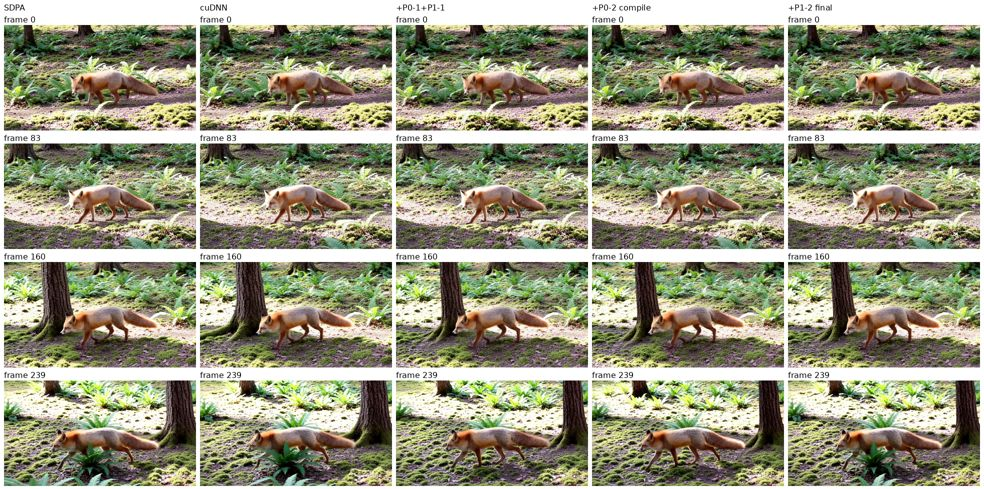
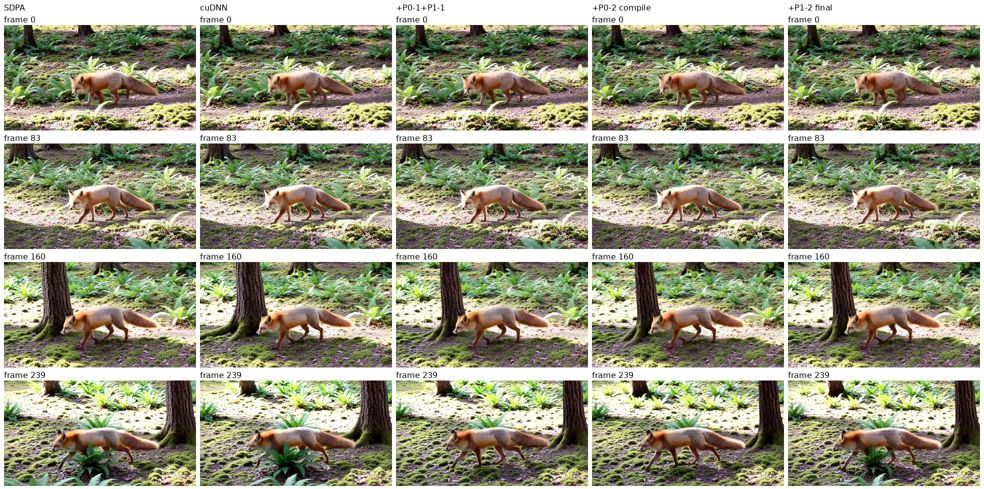
[Perf] Drop the Hy-Nomas q/k/v projection merge
Merging each stream's q/k/v projections into one GEMM measured no gain
(61,826 ms vs 61,723 ms without it), while it changed the checkpoint
mapping. Restore the separate projections and strict 1:1 loader; keep the
fused QK norm/RoPE, which takes separate q/k/v tensors.

Realtime smoke of the shipped config (warmup + 3 runs): median e2e
61,404 ms, DiT 29,930 ms, DiT MFU on valid-token FLOPs 72.7%, peak
66.12 GiB; decoded-RGB SSIM vs TORCH_SDPA 0.659. Update the report.

diff --git a/vllm_omni/diffusion/models/hy_nomas/transformer.py b/vllm_omni/diffusion/models/hy_nomas/transformer.py
@@ -24,7 +24,6 @@ numerical equivalence to the optional Magi/Flash kernels.
 """
 
 import math
-import re
 from collections.abc import Iterable
 from dataclasses import dataclass
 
@@ -48,8 +47,6 @@ from vllm_omni.diffusion.layers.norm import LayerNorm
 from vllm_omni.diffusion.models.flux.flux_transformer import FeedForward
 from vllm_omni.diffusion.models.hunyuan_video.hunyuan_video_15_transformer import HunyuanVideo15PatchEmbed
 from vllm_omni.diffusion.models.hy_nomas.cache import HyNomasKVCache
-
-_FUSED_QKV = re.compile(r"(double_blocks\.\d+\.attn\.(?:img|txt)_attn_)qkv\.(weight|bias)")
 
 
 def _attention(heads: int, head_dim: int, role: str) -> Attention:
@@ -265,10 +262,12 @@ class HyNomasAttnProcessor:
         cache_action_start=None,
         qk_norm_rope_table=None,
     ):
-        query, key, value = attn.img_attn_qkv(hidden_states).unflatten(-1, (3, attn.heads, -1)).unbind(-3)
-        encoder_query, encoder_key, encoder_value = (
-            attn.txt_attn_qkv(encoder_hidden_states).unflatten(-1, (3, attn.heads, -1)).unbind(-3)
-        )
+        query = attn.img_attn_q(hidden_states).unflatten(-1, (attn.heads, -1))
+        key = attn.img_attn_k(hidden_states).unflatten(-1, (attn.heads, -1))
+        value = attn.img_attn_v(hidden_states).unflatten(-1, (attn.heads, -1))
+        encoder_query = attn.txt_attn_q(encoder_hidden_states).unflatten(-1, (attn.heads, -1))
+        encoder_key = attn.txt_attn_k(encoder_hidden_states).unflatten(-1, (attn.heads, -1))
+        encoder_value = attn.txt_attn_v(encoder_hidden_states).unflatten(-1, (attn.heads, -1))
         if qk_norm_rope_table is not None and _fused_cuda_supported(
             query, key, query.shape[-1], qk_norm_rope_table.shape[-1], interleaved=True
         ):
@@ -439,9 +438,8 @@ class HyNomasAttention(nn.Module):
         self.heads = heads
         self.attention = _attention(heads, hidden_size // heads, "hy_nomas.joint")
         for prefix in ("img", "txt"):
-            # The checkpoint's separate q/k/v projections load into one GEMM.
-            setattr(self, f"{prefix}_attn_qkv", nn.Linear(hidden_size, 3 * hidden_size))
-            setattr(self, f"{prefix}_attn_proj", nn.Linear(hidden_size, hidden_size))
+            for projection in ("q", "k", "v", "proj"):
+                setattr(self, f"{prefix}_attn_{projection}", nn.Linear(hidden_size, hidden_size))
             setattr(self, f"{prefix}_attn_q_norm", RMSNorm(hidden_size // heads, eps=1e-6))
             setattr(self, f"{prefix}_attn_k_norm", RMSNorm(hidden_size // heads, eps=1e-6))
         self.processor = self._default_processor_cls()
@@ -685,32 +683,19 @@ class HyNomasTransformer3DModel(nn.Module):
         checkpoint_mapper = WeightsMapper(
             orig_to_new_substr={new: old for old, new in self.hf_to_vllm_mapper.orig_to_new_substr.items()}
         )
-        # Checkpoint name -> (parameter name, q/k/v shard of a fused projection or None).
-        destinations: dict[str, tuple[str, int | None]] = {}
-        for parameter_name in parameters:
-            checkpoint_name = checkpoint_mapper.apply_list([parameter_name])[0]
-            fused = _FUSED_QKV.fullmatch(checkpoint_name)
-            if fused is None:
-                destinations[checkpoint_name] = (parameter_name, None)
-                continue
-            for shard, projection in enumerate("qkv"):
-                destinations[f"{fused[1]}{projection}.{fused[2]}"] = (parameter_name, shard)
+        checkpoint_names = set(checkpoint_mapper.apply_list(list(parameters)))
         loaded: set[str] = set()
         seen: set[str] = set()
         for name, tensor in weights:
-            if name not in destinations:
+            if name not in checkpoint_names:
                 raise ValueError(f"Unexpected Hy-Nomas transformer weight: {name}")
             if name in seen:
                 raise ValueError(f"Duplicate Hy-Nomas transformer weight: {name}")
-            destination, shard = destinations[name]
-            parameter = parameters[destination]
-            if shard is not None:
-                size = parameter.shape[0] // 3
-                parameter = parameter.data[shard * size : (shard + 1) * size]
-            default_weight_loader(parameter, tensor)
+            destination = self.hf_to_vllm_mapper.apply_list([name])[0]
+            default_weight_loader(parameters[destination], tensor)
             seen.add(name)
             loaded.add(destination)
-        missing = set(destinations) - seen
+        missing = checkpoint_names - seen
         if missing:
             raise ValueError(f"Missing Hy-Nomas transformer weights: {sorted(missing)}")
         return loaded

diff --git a/tests/diffusion/models/test_hy_nomas_transformer.py b/tests/diffusion/models/test_hy_nomas_transformer.py
@@ -138,34 +138,13 @@ def test_camera_gate_and_front_padding(tiny_model):
         tiny_model(**args, camera_extrinsics=poses[:, :4])
 
 
-def _checkpoint_names(name):
-    """Map a parameter to its converted-checkpoint names, splitting fused q/k/v."""
-    name = name.replace("_mlp.net.0.proj.", "_mlp.fc1.").replace("_mlp.net.2.", "_mlp.fc2.")
-    fused = model_module._FUSED_QKV.fullmatch(name)
-    return [name] if fused is None else [f"{fused[1]}{projection}.{fused[2]}" for projection in "qkv"]
-
-
-def _checkpoint(state):
-    weights = []
-    for name, tensor in state.items():
-        names = _checkpoint_names(name)
-        weights.extend(zip(names, (part.clone() for part in tensor.chunk(len(names)))))
-    return weights
-
-
 def test_strict_checkpoint_loading(tiny_model):
-    weights = _checkpoint(tiny_model.state_dict())
+    weights = []
+    for name, tensor in tiny_model.state_dict().items():
+        name = name.replace("_mlp.net.0.proj.", "_mlp.fc1.").replace("_mlp.net.2.", "_mlp.fc2.")
+        weights.append((name, tensor.clone()))
     weights.reverse()
-    checkpoint = dict(weights)
-    for parameter in tiny_model.parameters():
-        nn.init.zeros_(parameter)
     assert tiny_model.load_weights(weights) == set(tiny_model.state_dict())
-    for prefix in ("img", "txt"):
-        base = f"double_blocks.1.attn.{prefix}_attn_"
-        for field in ("weight", "bias"):
-            fused = getattr(getattr(tiny_model.double_blocks[1].attn, f"{prefix}_attn_qkv"), field)
-            expected = torch.cat([checkpoint[f"{base}{projection}.{field}"] for projection in "qkv"])
-            assert torch.equal(fused, expected)
     for prefix in ("img", "txt"):
         checkpoint = dict(weights)
         inputs = torch.randn(1, 5, 12)
@@ -370,14 +349,10 @@ def test_full_checkpoint_mapping_coverage(monkeypatch):
     with torch.device("meta"):
         model = model_module.HyNomasTransformer3DModel()
     parameters = dict(model.named_parameters())
-    # Each fused q/k/v projection replaces three checkpoint projections.
-    assert len(parameters) == 2268 - 2 * 2 * 2 * 54
-    checkpoint = [(name, target) for target in parameters for name in _checkpoint_names(target)]
-    assert len(checkpoint) == len({name for name, _ in checkpoint}) == 2268
-    weights = []
-    for name, target in checkpoint:
-        tensor = parameters[target]
-        if model_module._FUSED_QKV.fullmatch(target):
-            tensor = tensor[: tensor.shape[0] // 3]
-        weights.append((name, tensor))
-    assert model.load_weights(weights) == set(parameters)
+    checkpoint = [
+        name.replace("_mlp.net.0.proj.", "_mlp.fc1.").replace("_mlp.net.2.", "_mlp.fc2.") for name in parameters
+    ]
+    mapped = model.hf_to_vllm_mapper.apply_list(checkpoint)
+    assert len(mapped) == len(set(mapped)) == len(parameters) == 2268
+    assert set(mapped) == set(parameters)
+    assert model.load_weights((name, parameters[target]) for name, target in zip(checkpoint, mapped)) == set(parameters)

diff --git a/docs/design/model_specific/hy_nomas_dit_mfu.md b/docs/design/model_specific/hy_nomas_dit_mfu.md
@@ -1,19 +1,19 @@
 # Hy-Nomas realtime DiT MFU optimization, 2026-10-26
 
 Four changes on top of cuDNN joint attention cut the realtime smoke from
-**79,479 ms to 61,560 ms** end to end (1.29x; 2.16x versus TORCH_SDPA) and
-raise DiT MFU on valid-token FLOPs from **45.0% to 72.8%**. Peak device
-memory falls from 88.25 to 65.53 GiB. Only the final-commit skip is bitwise
+**79,479 ms to 61,404 ms** end to end (1.29x; 2.17x versus TORCH_SDPA) and
+raise DiT MFU on valid-token FLOPs from **45.0% to 72.7%**. Peak device
+memory falls from 88.25 to 66.12 GiB. Only the final-commit skip is bitwise
 exact; the others change BF16 rounding and therefore the sampled trajectory.
 
 ## Changes
 
-| Step | Commit subject | Effect |
+| Step | Change | Effect |
 | --- | --- | --- |
 | P0-1 | Skip the Hy-Nomas final-segment KV commit | The last segment's cache-write forward had no reader |
 | P1-1 | Run Hy-Nomas joint attention mask-free | Trim right-padded text (25 of 1,280 tokens valid), commit only visible KV, pass no mask |
 | P0-2 | Compile the Hy-Nomas realtime DiT stage | `enforce_eager: false` on the DiT stage; regional compile of the 54 blocks |
-| P1-2 | Fuse Hy-Nomas Q/K/V projections and QK norm/RoPE | One q/k/v GEMM per stream; shared `fused_joint_qkv_norm_rope` op |
+| P1-2 | Fuse Hy-Nomas QK norm/RoPE (q/k/v merge dropped) | Shared `fused_joint_qkv_norm_rope` op for both streams' Q/K norm, video RoPE and the join |
 
 P1-1 also removes the dense `[heads, Q, K]` Boolean mask that the masked
 attention path materialized: 16 x 27,680 x 55,360 bytes is 22.8 GiB, matching
@@ -52,13 +52,13 @@ hash exactly across warmup and measured runs.
 | + P0-1 final-commit skip | 76,981 | 31 | 34,119 | 45,366 | 52.1% | 48.0% | 46.8% | 88.25 |
 | + P1-1 mask-free attention | 69,739 | 141 | 31,313 | 38,723 | 56.2% | 56.2% | 51.6% | 65.58 |
 | + P0-2 regional compile | 61,723 | 182 | 26,816 | 30,544 | 71.3% | 71.3% | 58.3% | 68.17 |
-| + P1-2 q/k/v merge only | 61,826 | 89 | 26,937 | 30,571 | 71.2% | 71.2% | 58.2% | 68.89 |
-| **+ P1-2 complete** | **61,560** | 242 | **26,824** | **29,918** | **72.8%** | **72.8%** | **58.5%** | **65.53** |
+| **+ P1-2 fused norm/RoPE** | **61,404** | 54 | **26,778** | **29,930** | **72.7%** | **72.7%** | **58.6%** | **66.12** |
 
-The compiled configurations' first request takes about 101-107 s instead of
+The compiled configurations' first request takes about 93-107 s instead of
 85 s because it includes compilation. P1-2's end-to-end change is within
-run-to-run spread; its DiT gain comes from the fused norm/RoPE, while the q/k/v
-merge alone shows none.
+run-to-run spread; its DiT gain is about 0.6 s. A variant that also merged each
+stream's q/k/v projections into one GEMM measured 61,560 ms with the fused
+norm/RoPE and 61,826 ms without it, so the merge was dropped.
 
 ## Output comparison
 
@@ -73,7 +73,7 @@ prediction by 0.69% ([attention diagnosis](hy_nomas_attention_diagnosis.md)).
 | + P0-1 | yes | 0.712 (0.860 / 0.633) | 19.26 | 1.000 |
 | + P1-1 | no | 0.689 (0.854 / 0.600) | 18.49 | 0.607 |
 | + P0-2 | no | 0.589 (0.677 / 0.542) | 17.15 | 0.549 |
-| + P1-2 complete | no | 0.687 (0.751 / 0.652) | 18.84 | 0.661 |
+| + P1-2 | no | 0.659 (0.736 / 0.618) | 18.28 | 0.605 |
 
 ![Selected frames from SDPA, cuDNN and each optimization step](hy_nomas_profile_assets/dit-mfu-contact.jpg)
 
@@ -95,16 +95,17 @@ The final state passes all 103 Hy-Nomas CPU/CUDA component, pipeline, stage,
 decoder, deploy and Qwen prompt tests (one skip); the P0-1 and P1-1 commit
 states pass their suites (97 and 101 tests). New cases cover
 final-commit skipping, visible-token KV compaction, prompt trimming for right-
-versus left-padded text, trimmed-versus-padded transformer equivalence,
-fused-versus-separate q/k/v checkpoint loading and fused-versus-eager norm/RoPE.
+versus left-padded text, trimmed-versus-padded transformer equivalence and
+fused-versus-eager norm/RoPE.
 
 External harness scripts remain outside the repository, under
 `/root/autodl-tmp/nomas-cudnn-opt/tools` on the GPU host:
 
 ```bash
 # NAME, code root, deploy config; one warmup plus three measured requests
-bash tools/run-variant.sh p12 /root/autodl-tmp/nomas-cudnn-p12 compile.yaml
-/root/autodl-tmp/venv-nomas-review/bin/python tools/analyze.py p01 p11 p02 p12q p12
+bash tools/run-variant.sh p12f /root/autodl-tmp/nomas-cudnn-p12f \
+  /root/autodl-tmp/nomas-cudnn-p12f/vllm_omni/deploy/hy_nomas_two_stage_realtime.yaml
+/root/autodl-tmp/venv-nomas-review/bin/python tools/analyze.py p01 p11 p02 p12f
 ```
 
 `run-variant.sh` reuses the backend smoke's `start-server.sh`, `benchmark.py`
